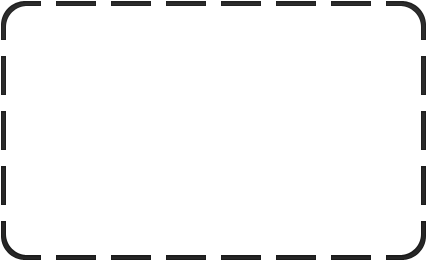
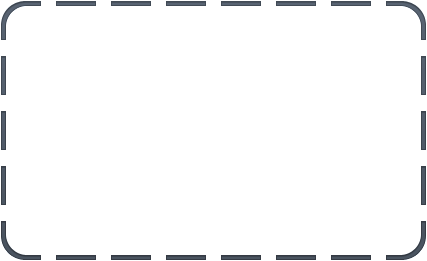
[Theme][Issue #29]: Changing the theme colours

diff --git a/Barrel/OESidebarOutlineButtonCell.m b/Barrel/OESidebarOutlineButtonCell.m
@@ -57,7 +57,7 @@
     if([controlView isKindOfClass:[OESidebarOutlineView class]] && [(OESidebarOutlineView*)controlView isDrawingAboveDropHighlight])
         [[(OESidebarOutlineView*)controlView dropBackgroundColor] setFill];
     else
-        [[NSColor colorWithDeviceWhite:(63/255.0) alpha:1.0] setFill];
+        [[NSColor colorWithDeviceRed:82.0/255.0 green:90.0/255.0 blue:104.0/255.0 alpha:1.0] setFill];
     NSRectFillUsingOperation(triangleRect, NSCompositeDestinationOver);
 }
 

diff --git a/Barrel/OESidebarBackgroundView.m b/Barrel/OESidebarBackgroundView.m
@@ -30,7 +30,7 @@
 
 - (void)drawRect:(NSRect)dirtyRect
 {
-    [[NSColor colorWithDeviceWhite:(63/255.0) alpha:1.0] setFill];
+    [[NSColor colorWithDeviceRed:82.0/255.0 green:90.0/255.0 blue:104.0/255.0 alpha:1.0] setFill];
     NSRectFill(dirtyRect);
     [[NSColor blackColor] setFill];
     NSRect blackBorderLine = [self bounds];
